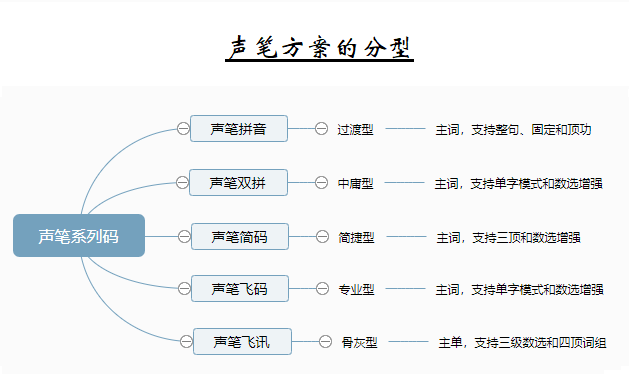
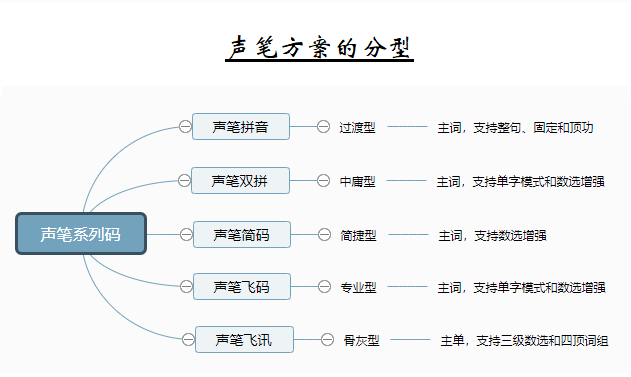
Site updated: 2023-04-05 09:45:58

diff --git a/sbpy/index.html b/sbpy/index.html
@@ -144,23 +144,6 @@ var _hmt = _hmt || [];
 <meta property="og:image" content="http://sbxlm.gitee.io/images/baidulizi7.png">
 <meta property="og:image" content="http://sbxlm.gitee.io/images/baidulizi8.png">
 <meta property="og:image" content="http://sbxlm.gitee.io/images/baidulizi9.png">
-<meta property="og:image" content="http://sbxlm.gitee.io/images/baidulizi10.png">
-<meta property="og:image" content="http://sbxlm.gitee.io/images/baidulizi11.png">
-<meta property="og:image" content="http://sbxlm.gitee.io/images/baidulizi12.png">
-<meta property="og:image" content="http://sbxlm.gitee.io/images/baidulizi13.png">
-<meta property="og:image" content="http://sbxlm.gitee.io/images/baidulizi14.png">
-<meta property="og:image" content="http://sbxlm.gitee.io/images/baidulizi15.png">
-<meta property="og:image" content="http://sbxlm.gitee.io/images/baidulizi16.png">
-<meta property="og:image" content="http://sbxlm.gitee.io/images/baidulizi17.png">
-<meta property="og:image" content="http://sbxlm.gitee.io/images/baidulizi18.png">
-<meta property="og:image" content="http://sbxlm.gitee.io/images/baidulizi19.png">
-<meta property="og:image" content="http://sbxlm.gitee.io/images/baidulizi20.png">
-<meta property="og:image" content="http://sbxlm.gitee.io/images/baidulizi21.png">
-<meta property="og:image" content="http://sbxlm.gitee.io/images/baidulizi22.png">
-<meta property="og:image" content="http://sbxlm.gitee.io/images/baidulizi23.png">
-<meta property="og:image" content="http://sbxlm.gitee.io/images/baidulizi24.png">
-<meta property="og:image" content="http://sbxlm.gitee.io/images/baidulizi25.png">
-<meta property="og:image" content="http://sbxlm.gitee.io/images/baidulizi26.png">
 <meta property="og:image" content="http://sbxlm.gitee.io/images/ED4554C66B157CA65E9DD26844A5B276.jpg">
 <meta property="og:image" content="http://sbxlm.gitee.io/images/image-20230201143234032.png">
 <meta property="og:image" content="http://sbxlm.gitee.io/images/image-20230201142801951.png">
@@ -277,7 +260,8 @@ var _hmt = _hmt || [];
 <meta property="og:image" content="http://sbxlm.gitee.io/images/image-20230201112859053.png">
 <meta property="og:image" content="http://sbxlm.gitee.io/images/image-20230201112932522.png">
 <meta property="og:image" content="http://sbxlm.gitee.io/images/image-20230201113016504.png">
-<meta property="og:image" content="http://sbxlm.gitee.io/images/image-20230301073635129.png">
+<meta property="og:image" content="http://sbxlm.gitee.io/images/image-20230403141213815.png">
+<meta property="og:image" content="http://sbxlm.gitee.io/images/image-20230405092939938.png">
 <meta property="og:image" content="http://sbxlm.gitee.io/images/image-20230202021053841.png">
 <meta property="og:image" content="http://sbxlm.gitee.io/images/image-20230301074325880.png">
 <meta property="og:image" content="http://sbxlm.gitee.io/images/image-20230301113246474.png">
@@ -321,7 +305,7 @@ var _hmt = _hmt || [];
 <meta property="og:image" content="http://sbxlm.gitee.io/images/image-20230222100111693.png">
 <meta property="og:image" content="http://sbxlm.gitee.io/images/image-20230222100132046.png">
 <meta property="og:image" content="http://sbxlm.gitee.io/images/image-20230222100156510.png">
-<meta property="og:updated_time" content="2023-03-01T22:28:36.013Z">
+<meta property="og:updated_time" content="2023-04-05T01:30:30.149Z">
 <meta name="twitter:card" content="summary">
 <meta name="twitter:title" content="声笔拼音">
 <meta name="twitter:description" content="1  引言拼音输入法是中国大陆目前使用得最为广泛的输入方案，其用户比例至少在96%以上，甚至可能高达99%。确切地说，这里的拼音输入法是全拼输入，不包括双拼，因为后者使用的人非常少，相比全拼可以说是微乎其微。 在中国大陆，任何需要输入中文的设备或者操作系统，不论电脑、手机还是平板、电视，也不论Windows、MacOS、Android还是iOS，全拼输入方案都是必备的，而且是默认的中文输入方式。不">
@@ -922,55 +906,8 @@ var _hmt = _hmt || [];
 <p><img src="/images/baidulizi8.png" alt="百度例子8"></p>
 <p>即使补全「拼」字的韵母后，也要在第4页上才会出现。</p>
 <p><img src="/images/baidulizi9.png" alt="百度例子9"></p>
-<p>所以，虽然简拼有的时候能够大大节约用键，提高输入效率，但是运用不好的话，也可能适得其反，更不能教条化地无条件使用。至于如何正确使用，我们将在讲到拼音输入技巧时详细论述。</p>
-<h3 id="1-2-拼音输入技巧"><a href="#1-2-拼音输入技巧" class="headerlink" title="1.2 拼音输入技巧"></a>1.2 拼音输入技巧</h3><p>在前面论述拼音输入误区的时候，已经得出结论：以整句为单位来输入中文是不可取的，而且单字加联想的方式也是应该避免的，简拼也不要不分青红皂白地使用。那么，正确的方式是应该以字词为单位来进行输入，并且综合利用各种技巧。字词再加细分，又可以分为单字、二字词、三字词和多字词，以下分别论述其正确的输入方法。</p>
-<h4 id="1-2-1-单字"><a href="#1-2-1-单字" class="headerlink" title="1.2.1 单字"></a>1.2.1 单字</h4><p>汉字的同音字现象很严重，单字输入时重码多，码长长，人机交互频繁，不利于提高输入速度，所以要尽量避免，只有在不能组词的情况下才使用单字。在输入单字时，又分超高频单字、一般单字和局部重复使用的单字几种情况而有不同的输入方式。</p>
-<h5 id="1-2-1-1-高频字"><a href="#1-2-1-1-高频字" class="headerlink" title="1.2.1.1 高频字"></a>1.2.1.1 高频字</h5><p>高频字是指少数使用频率非常高的单字，如「的」「一」「是」「了」等，它们一般只需要用一码就行了。这类字很容易形成条件反射，不假思索地就打声母加空格了。但是，在主流的拼音输入法中，拼音首字母上的字不是固定的，会随着你的使用发生变化，这就容易造成误输入。例如，用百度PC端输入法，在输入h后，就可能有以下不同的结果。</p>
-<p><img src="/images/baidulizi10.png" alt="百度例子10"></p>
-<p>对于初学者来说，这种动态调整也许是有益的，可以尽量减少用户的按键操作，因为输入法是根据该字的使用频度和已经输入的字词来排列一简字的。但是，稍微熟练点的用户就会希望将拼音首字母上的超高频字固定下来，因为人会对高频反复的动作形成条件反射。固定一简字后，可以对一简字进行盲打，提高击键速度，比之频繁的人机交互更能提高打字速度。固定超高频字的方法是利用输入法的自定义短语功能为你选定的超高频字固定一个字母。</p>
-<p>在键入首字母后，除了作为首选项的一简字，还有一些其它字可以直接用数字选择上屏。初学者常常会去选择它们，因为可以节约用键啊。一定要抵抗住这种诱惑，否则会养成坏的习惯。为什么呢？因为那些字是动态变化的，扫描这些选项来找到需要的字是很费时间的。而且，数字键不好操作，容易按错，对初学者更是如此。</p>
-<p>还有一种诱惑更要抵抗住，那就是输入第一码后通过翻页去找后面的字，除非你不知道韵母。这是一种效率极低的输入方法，有太多的人机交互，不但会导致击键缓慢，而且用不了多久，眼睛就会疲乏倦怠而受不了。</p>
-<h5 id="1-2-1-2-一般字"><a href="#1-2-1-2-一般字" class="headerlink" title="1.2.1.2  一般字"></a>1.2.1.2  一般字</h5><p>一般字是指一简字之外的其它单字。这种字一般是采用全拼输入。如果有重码就用数字键来选择。通常默认有五个选项，分别用12345作为选择键，首选项可以用空格上屏，而且一定要用空格上屏才能提高效率。选项的数量虽然可以通过设置调整为最多10个，但是不建议这么做，因为选项过多会加重人机交互的负担，效率反而降低。</p>
-<p>如果所要的字没有出现在当前页，一般人都是进行翻页查找，这对于高频字可能没有问题，其它字就可能需要很多次翻页查找。例如，「译」字，就需要六次翻页，在第七页才出现，而且如果不仔细看的话很可能看漏。如果要输入「疫」字，那么需要的翻页次数就更多了。</p>
-<p><img src="/images/baidulizi11.png" alt="百度例子11"></p>
-<p>怎么避免翻页呢？答案是添加辅助码，其方法是，先按Tab键，然后输入笔画或者部件名称的首字母。横竖撇捺折五种笔画分别用hsbnz来表示。部件的名称有的时候不好琢磨，比如「疫」的两个部件辅助码为bs，很少有人知道「殳」的读音为shu。下图所示是输入「疫」字时分别加笔画和部件辅助码的情况。</p>
-<p><img src="/images/baidulizi12.png" alt="百度例子12"></p>
-<p>在手机上的操作方式是类似的。在输入拼音后，下拉翻页，再点击笔画来过滤。不过，手机上只有笔画辅助码，没有部件辅助码，而且笔画也只能使用首笔。每页有多达二十个选项，当页没有的话，还可以再下拉翻页。操作过程如下图所示。</p>
-<p><img src="/images/baidulizi13.png" alt="百度例子13"></p>
-<h5 id="1-2-1-3-重复字"><a href="#1-2-1-3-重复字" class="headerlink" title="1.2.1.3  重复字"></a>1.2.1.3  重复字</h5><p>对于刚才输入过的字，即局部重复的字，输入法会动态的将其提前。例如，上例中的「疫」字，在输入过一次以后，只要输入它的拼音首字母，它就会出现在首位。</p>
-<p><img src="/images/baidulizi14.png" alt="百度例子14"></p>
-<p>当然，如果你已经将一个超高频字比如「一」通过自定义短语固定给了y，那么就需要输入yi才会有「疫」出现在首选。</p>
-<h4 id="1-2-2-二字词"><a href="#1-2-2-二字词" class="headerlink" title="1.2.2 二字词"></a>1.2.2 二字词</h4><p>二字词在中文里是使用得最多的词组，数量很大，同音词现象非常严重，掌握其输入技巧是极为重要的。与单字的情况类似，也可以分为高频词、一般词和重复词三种情况。如何判断一个词是否为高频词，没有一个简单的规则可用，只能凭借经验和直觉了。</p>
-<h5 id="1-2-2-1-高频词"><a href="#1-2-2-1-高频词" class="headerlink" title="1.2.2.1  高频词"></a>1.2.2.1  高频词</h5><p>对于使用频率很高的二字词，应该采用简拼来输入。例如，「我们」可以用wm，「非常」一般用fc即可。</p>
-<p><img src="/images/baidulizi15.png" alt="百度例子15"></p>
-<p>如果首页没有你要的词，一定不要翻页查找，而是应该继续输入第二字的韵母。例如，「文明」在输入wm后，如果没有，就补全为wming。</p>
-<p><img src="/images/baidulizi16.png" alt="百度例子16"></p>
-<p>这时如果要输入的是「亡命」，又怎么办呢？一种方法是，按左箭头键一次将光标向前移动一个音节到w后，补充输入「亡」的韵母ang，然后按End键将光标移动到最后。</p>
-<p><img src="/images/baidulizi17.png" alt="百度例子17"></p>
-<p>更好的方法是，不移动光标，而按Tab后添加首字前两笔的笔画辅助码，「亡命」就出现了。</p>
-<p><img src="/images/baidulizi18.png" alt="百度例子18"></p>
-<p>如果要输入的词不存在，也可以通过以上方式来造词，而不是用Esc清除后重新输入，造成浪费。比如，输入「声笔」的情况如下。在输入sbi后，当前页没有，按Tab键追加首字的四个笔画hshz，「声」字出现在首位，按空格上屏后，「笔」字也出现了。</p>
-<p><img src="/images/baidulizi19.png" alt="百度例子19"></p>
-<h5 id="1-2-2-2-一般词"><a href="#1-2-2-2-一般词" class="headerlink" title="1.2.2.2  一般词"></a>1.2.2.2  一般词</h5><p>如果用户判断要输入的二字词不是特别常见，那么第一个字就要采用全拼，第二个字先用简拼。这种方式的用键比较多，优点是确定性更好。例如，要输入「撞针」，则先输入zhuangz，发现没有，于是再补全第二字的拼音，该词就出现了。</p>
-<p><img src="/images/baidulizi20.png" alt="百度例子20"></p>
-<p>如果遇到不存在的词，则按Tab键添加首字笔画或者部件的声母，逐个选择输入单字来造词。还是以「声笔」一词为例，输入过程如下。</p>
-<p><img src="/images/baidulizi21.png" alt="百度例子21"></p>
-<p>这里需要注意的问题仍然是，要避免陷入翻页查找的误区。虽然有的时候翻页一次就能找到，但是也会常常遇到多次翻页都找不到的情况，总体平均下来成本会更高。</p>
-<p>如果已经估计到一个二字词在输入法中不存在，那么还是用全拼来输入后造词是最好的。</p>
-<h5 id="1-2-2-3-重复词"><a href="#1-2-2-3-重复词" class="headerlink" title="1.2.2.3  重复词"></a>1.2.2.3  重复词</h5><p>对于上文刚出现过的二字词，一般可以直接采用简拼来输入。比如，上文才输入了「撞针」和「声笔」，那么分别用zz和sb就可以输入它们了，可以节约大量的用键。</p>
-<p><img src="/images/baidulizi22.png" alt="百度例子22"></p>
-<h4 id="1-2-3-三字词"><a href="#1-2-3-三字词" class="headerlink" title="1.2.3  三字词"></a>1.2.3  三字词</h4><p>在中文里，三字词的数量比二字词少得多，而且三字词拼音提供的编码信息量大，所以效率最高并能避免浪费的输入方式是，先用简拼，未出现则补全末字的拼音，再未出现则按Tab键后追加首字的笔画。例如，输入「浆纱机」的过程如下。</p>
-<p><img src="/images/baidulizi23.png" alt="百度例子23"></p>
-<p>对比以下可能的其它方式。可以看出，提供的拼音越全面，确定性也就越高，但是用键也越多。</p>
-<p><img src="/images/baidulizi24.png" alt="百度例子24"></p>
-<p>对于「浆纱机」一词的输入来说，以上的第一种方式用键还更省，而且不用追加笔画，似乎是更好的。但是，这些方式不能以最简的方式来输入「计算机」「教师节」等词组，总体说来还是不划算的。如果上文才输入过「浆纱机」，那么用简拼就是理所当然的事了，与推荐的方法也是吻合的。</p>
-<p>如果我们觉得输入法应该有的词，按照简拼优先的方式输入后发现没有，那么仍然可以Tab追加笔画来造词，比如输入「声笔佬」的过程如下。</p>
-<p><img src="/images/baidulizi25.png" alt="百度例子25"></p>
-<p>还是要强调一下，如果明明知道某个词在输入法中没有的话，那么还是用全拼来造词是最好的。</p>
-<h4 id="1-2-4-多字词"><a href="#1-2-4-多字词" class="headerlink" title="1.2.4  多字词"></a>1.2.4  多字词</h4><p>多字词是指四字及以上的词，它们数量虽然非常大，但是简拼能够提供的信息也足够丰富，所以应该以简拼作为最佳输入手段。例如，「欣欣向荣」「天王盖地虎」，输入前四个字的简拼后就出来了。</p>
-<p><img src="/images/baidulizi26.png" alt="百度例子26"></p>
-<p>与其它类型词组不同的是，如果通过简拼没有找到所需的词，那么最好就不要用补全末字拼音和追加笔画的方式来造词了，而应该用Esc键清除编码后，改用全拼输入来造词，这是因为已经输入的编码并不多，而追加韵母和笔画造词又太繁琐。</p>
-<h3 id="1-3-拼音输入改进"><a href="#1-3-拼音输入改进" class="headerlink" title="1.3 拼音输入改进"></a>1.3 拼音输入改进</h3><p>通常，为了在使用拼音的情况克服以上问题，人们首先想到的可能就是采用双拼。但是，双拼的门槛还是不低，需要记住30来个韵母、3个翘舌声母和零声母的表示形式，而且仍然不能解决重码多的问题。</p>
+<p>所以，虽然简拼有的时候能够大大节约用键，提高输入效率，但是运用不好的话，也可能适得其反，更不能教条化地无条件使用。</p>
+<h3 id="1-2-拼音输入改进"><a href="#1-2-拼音输入改进" class="headerlink" title="1.2 拼音输入改进"></a>1.2 拼音输入改进</h3><p>通常，为了在使用拼音的情况克服以上问题，人们首先想到的可能就是采用双拼。但是，双拼的门槛还是不低，需要记住30来个韵母、3个翘舌声母和零声母的表示形式，而且仍然不能解决重码多的问题。</p>
 <p>声笔拼音则另辟蹊径，以全拼为基础，进行适当的变形，只需花费比双拼小得多的代价，就可以取得相当于甚至高于双拼的输入效率。声笔拼音是一种非常「奇特」的拼音输入法，它完全颠覆了人们对拼音输入法的认识，平均码长和重码大幅度减少，翻页键很少用得着，输入效率大大提升。</p>
 <blockquote>
 <p>声笔拼音三板斧，实现三次大飞跃</p>
@@ -980,9 +917,9 @@ var _hmt = _hmt || [];
 <li>省略用键：优化路径、省略空格、简化回改</li>
 </ol>
 </blockquote>
-<h3 id="1-4-适用人群"><a href="#1-4-适用人群" class="headerlink" title="1.4 适用人群"></a>1.4 适用人群</h3><p>声笔拼音适合什么样的人使用呢？声笔拼音是对现有拼音输入法的优化和改进，所以它适用于正在用拼音输入中文的所有人，可以仅花费极小的代价就获得高得多的中文输入效率，而不必花更多的时间和精力去学习双拼甚至五笔等。声笔拼音将彻底改变人们对拼音输入时重码多、效率低的刻板印象，是最佳的拼音输入法升级方案。</p>
+<h3 id="1-3-适用人群"><a href="#1-3-适用人群" class="headerlink" title="1.3 适用人群"></a>1.3 适用人群</h3><p>声笔拼音适合什么样的人使用呢？声笔拼音是对现有拼音输入法的优化和改进，所以它适用于正在用拼音输入中文的所有人，可以仅花费极小的代价就获得高得多的中文输入效率，而不必花更多的时间和精力去学习双拼甚至五笔等。声笔拼音将彻底改变人们对拼音输入时重码多、效率低的刻板印象，是最佳的拼音输入法升级方案。</p>
 <p>如果您的拼音非常糟糕，对韵母的掌握一塌糊涂，声母也分不清平翘舌什么的，同时又想有一个简单高效的输入方案，那么强烈建议您使用声笔系列码中的<a href="../sbjm/">声笔简码</a>，它仅使用不分平翘舌的声母和五个笔画，就能取得比声笔拼音还高的输入效率。</p>
-<h3 id="1-5-内容介绍"><a href="#1-5-内容介绍" class="headerlink" title="1.5 内容介绍"></a>1.5 内容介绍</h3><p>本文只涉及声笔系列码中的声笔拼音。有关声笔系列码的总体情况请参见<a href="../about/">总体介绍</a>。有关下载、安装和配置的方法，请参见<a href="../vzpz/">安装配置</a>。有关声笔系列码的发展历史，请参见<a href="../fzlc/">发展历程</a>。对于一些常见问题的解答，请参见<a href="../faq/">常见问题</a>。声笔系列码的其它输入方案详见各自的专题。</p>
+<h3 id="1-4-内容介绍"><a href="#1-4-内容介绍" class="headerlink" title="1.4 内容介绍"></a>1.4 内容介绍</h3><p>本文只涉及声笔系列码中的声笔拼音。有关声笔系列码的总体情况请参见<a href="../about/">总体介绍</a>。有关下载、安装和配置的方法，请参见<a href="../vzpz/">安装配置</a>。有关声笔系列码的发展历史，请参见<a href="../fzlc/">发展历程</a>。对于一些常见问题的解答，请参见<a href="../faq/">常见问题</a>。声笔系列码的其它输入方案详见各自的专题。</p>
 <h2 id="2-声笔拼音初步"><a href="#2-声笔拼音初步" class="headerlink" title="2 声笔拼音初步"></a>2 声笔拼音初步</h2><h3 id="2-1-快速入门"><a href="#2-1-快速入门" class="headerlink" title="2.1 快速入门"></a>2.1 快速入门</h3><h4 id="2-1-1-编码规则"><a href="#2-1-1-编码规则" class="headerlink" title="2.1.1 编码规则"></a>2.1.1 编码规则</h4><p>声笔拼音的编码元素为声母、韵母和笔画，具体表示方法与现行拼音输入法有一定的差异，请注意以下几点。</p>
 <ol>
 <li>冠零声：用v表示零声母，即作为以<code>a e o</code>开头的音节在形式上的声母。例如，<code>ai ei ou</code>就变成了<code>vai vei vou</code>。</li>
@@ -1271,11 +1208,13 @@ var _hmt = _hmt || [];
 <p>附fi 扶fi 吠fi 呋fi 唪fi 咈fi 噃fi 哹fi 咕gi 嘎gi 咣gi 呱gi 哏gi 哽gi 呷gi 嗝gi 怀hi 呵hi 嘿hi 嗨hi 哗hi 嗬hi 呼hi 唬hi 咯ki 咔ki 吭ki 哐ki 喀ki 嘅ki 咖ki 喹ki 诶vi 哎vi 嗳vi 唔vi 唉vi 嗷vi 嗄vi 吽vi 昂vu 矮vu 挨vu 敖vu 黯vu 熬vu 厄vu 俺vu 味wi 呜wi 嗡wi 喔wi 哇wi 喂wi 吻wi 唔wi</p>
 </blockquote>
 <p><img src="/images/image-20230201113016504.png" alt="image-20230201113016504"></p>
-<h4 id="3-3-2-数选词"><a href="#3-3-2-数选词" class="headerlink" title="3.3.2 数选词"></a>3.3.2 数选词</h4><p>声笔拼音的数选词采用两字的声母，再用数字来选择输入，在输入两码后会进行提示，数量较多，有3528个，以下是频率较高的前200个。</p>
+<h4 id="3-3-2-数选词"><a href="#3-3-2-数选词" class="headerlink" title="3.3.2 数选词"></a>3.3.2 数选词</h4><p>声笔拼音的数选词采用两字的声母，再用数字来选择输入，在输入两码后会进行提示，数量较多，有3523个，以下是频率较高的前200个。数字<code>23789</code>选择的为有理编码，它们与<code>aeuio</code>一一对应，代表第二字首笔画，而数字<code>456</code>选择的为无理编码，不与笔画对应。1和0是用来定位的，所以没有安排词组。</p>
 <blockquote>
 <p>中国这么那么一点只有心中社会世界声音之间技术眼睛一起以为有些然后宝贝想到男人国际过来一阵公司对方真是决定信息组织有关心里合作继续于是解决提高她们由于思想母亲会议回答生产群众江湖不想人们干部甚至无关立刻经过处理最后对于目光似的科技不见能够电话多少了解不断众人努力网络高兴到底之下不再具有来到不少是否罢工一边如今接着双手刚才坚持进来既然找到否则容易以来方式奇怪投资政策任务对象农业和尚后来脸色力量留下不好跟着敌人少年目标不用规定城市变成为何生命稳定全身仿佛之外进去开放分析行为开口哈哈安全青年民族总理访问学生大概开展丈夫认真回家感情程序听见困难听说失去绝不部分面对出口促进心情笑容考虑确定用户那儿不如若是的确外面哥哥同样连忙国有可惜心头并且收入肯定美元领域妈妈男子全面态度地位方才一番父母人才当年包括危险国内得了可怕协议采用联合动作家庭作品按照发表操作何况明显发觉下面先进正确强烈汽车投入状态得出其它年代</p>
 </blockquote>
-<p><img src="/images/image-20230301073635129.png" alt="image-20230301073635129"></p>
+<p><img src="/images/image-20230403141213815.png" alt="image-20230403141213815"></p>
+<p>由于<code>fv kv mv pv rv</code>在笔画为2（折）时无对应的有理词组， 所以其选项用编码代替，如下例所示。</p>
+<p><img src="/images/image-20230405092939938.png" alt="image-20230405092939938"></p>
 <h3 id="3-4-组合固定"><a href="#3-4-组合固定" class="headerlink" title="3.4 组合固定"></a>3.4 组合固定</h3><p>由固定字词而形成的某些组合形式是固定的，它们也是完全确定的，当组合后的用键足够少时在固定字词中就没有收录它们，它们多半不是真正的词组。使用一个固定组合的前提是，要首先记住构成它的固定字词。</p>
 <p>二简词中不包含由两个一简字的组合，因为它们可以通过两字的声母加分号变换快捷输入，例如：<code>一个yg; 就是js; 下去xq;</code>等。同时，<code>可发kf; 没下mx; 不你bn;</code>等则根本不是词，但仍可以按固定组合的方式用分号变换上屏。</p>
 <p>数选词既不包含由两个一简字的组合，也不收录二简词，例如：<code>一个yg; 起来ql_ 但是ds_</code>。</p>
@@ -1789,7 +1728,7 @@ var _hmt = _hmt || [];
             
 
             
-              <div class="post-toc-content"><ol class="nav"><li class="nav-item nav-level-2"><a class="nav-link" href="#1-引言"><span class="nav-text">1  引言</span></a><ol class="nav-child"><li class="nav-item nav-level-3"><a class="nav-link" href="#1-1拼音输入误区"><span class="nav-text">1.1拼音输入误区</span></a><ol class="nav-child"><li class="nav-item nav-level-4"><a class="nav-link" href="#1-1-1-整句误区"><span class="nav-text">1.1.1 整句误区</span></a></li><li class="nav-item nav-level-4"><a class="nav-link" href="#1-1-2-联想误区"><span class="nav-text">1.1.2 联想误区</span></a></li><li class="nav-item nav-level-4"><a class="nav-link" href="#1-1-3-简拼误区"><span class="nav-text">1.1.3 简拼误区</span></a></li></ol></li><li class="nav-item nav-level-3"><a class="nav-link" href="#1-2-拼音输入技巧"><span class="nav-text">1.2 拼音输入技巧</span></a><ol class="nav-child"><li class="nav-item nav-level-4"><a class="nav-link" href="#1-2-1-单字"><span class="nav-text">1.2.1 单字</span></a><ol class="nav-child"><li class="nav-item nav-level-5"><a class="nav-link" href="#1-2-1-1-高频字"><span class="nav-text">1.2.1.1 高频字</span></a></li><li class="nav-item nav-level-5"><a class="nav-link" href="#1-2-1-2-一般字"><span class="nav-text">1.2.1.2  一般字</span></a></li><li class="nav-item nav-level-5"><a class="nav-link" href="#1-2-1-3-重复字"><span class="nav-text">1.2.1.3  重复字</span></a></li></ol></li><li class="nav-item nav-level-4"><a class="nav-link" href="#1-2-2-二字词"><span class="nav-text">1.2.2 二字词</span></a><ol class="nav-child"><li class="nav-item nav-level-5"><a class="nav-link" href="#1-2-2-1-高频词"><span class="nav-text">1.2.2.1  高频词</span></a></li><li class="nav-item nav-level-5"><a class="nav-link" href="#1-2-2-2-一般词"><span class="nav-text">1.2.2.2  一般词</span></a></li><li class="nav-item nav-level-5"><a class="nav-link" href="#1-2-2-3-重复词"><span class="nav-text">1.2.2.3  重复词</span></a></li></ol></li><li class="nav-item nav-level-4"><a class="nav-link" href="#1-2-3-三字词"><span class="nav-text">1.2.3  三字词</span></a></li><li class="nav-item nav-level-4"><a class="nav-link" href="#1-2-4-多字词"><span class="nav-text">1.2.4  多字词</span></a></li></ol></li><li class="nav-item nav-level-3"><a class="nav-link" href="#1-3-拼音输入改进"><span class="nav-text">1.3 拼音输入改进</span></a></li><li class="nav-item nav-level-3"><a class="nav-link" href="#1-4-适用人群"><span class="nav-text">1.4 适用人群</span></a></li><li class="nav-item nav-level-3"><a class="nav-link" href="#1-5-内容介绍"><span class="nav-text">1.5 内容介绍</span></a></li></ol></li><li class="nav-item nav-level-2"><a class="nav-link" href="#2-声笔拼音初步"><span class="nav-text">2 声笔拼音初步</span></a><ol class="nav-child"><li class="nav-item nav-level-3"><a class="nav-link" href="#2-1-快速入门"><span class="nav-text">2.1 快速入门</span></a><ol class="nav-child"><li class="nav-item nav-level-4"><a class="nav-link" href="#2-1-1-编码规则"><span class="nav-text">2.1.1 编码规则</span></a></li><li class="nav-item nav-level-4"><a class="nav-link" href="#2-1-2-助记方法"><span class="nav-text">2.1.2 助记方法</span></a></li><li class="nav-item nav-level-4"><a class="nav-link" href="#2-1-3-基本输入"><span class="nav-text">2.1.3 基本输入</span></a></li><li class="nav-item nav-level-4"><a class="nav-link" href="#2-1-4-反查方法"><span class="nav-text">2.1.4 反查方法</span></a><ol class="nav-child"><li class="nav-item nav-level-5"><a class="nav-link" href="#2-1-4-1-拼音反查"><span class="nav-text">2.1.4.1 拼音反查</span></a></li><li class="nav-item nav-level-5"><a class="nav-link" href="#2-1-4-2-笔画反查"><span class="nav-text">2.1.4.2 笔画反查</span></a></li><li class="nav-item nav-level-5"><a class="nav-link" href="#2-1-4-3-两分反查"><span class="nav-text">2.1.4.3 两分反查</span></a></li></ol></li></ol></li><li class="nav-item nav-level-3"><a class="nav-link" href="#2-2-单字的输入"><span class="nav-text">2.2 单字的输入</span></a><ol class="nav-child"><li class="nav-item nav-level-4"><a class="nav-link" href="#2-2-1-重码问题"><span class="nav-text">2.2.1 重码问题</span></a></li><li class="nav-item nav-level-4"><a class="nav-link" href="#2-2-2-码长问题"><span class="nav-text">2.2.2 码长问题</span></a></li><li class="nav-item nav-level-4"><a class="nav-link" href="#2-2-3-模糊问题"><span class="nav-text">2.2.3 模糊问题</span></a></li></ol></li><li class="nav-item nav-level-3"><a class="nav-link" href="#2-3-二字词输入"><span class="nav-text">2.3 二字词输入</span></a><ol class="nav-child"><li class="nav-item nav-level-4"><a class="nav-link" href="#2-3-1-重码问题"><span class="nav-text">2.3.1 重码问题</span></a></li><li class="nav-item nav-level-4"><a class="nav-link" href="#2-3-2-输入格式"><span class="nav-text">2.3.2 输入格式</span></a></li><li class="nav-item nav-level-4"><a class="nav-link" href="#2-3-3-模糊问题"><span class="nav-text">2.3.3 模糊问题</span></a></li><li class="nav-item nav-level-4"><a class="nav-link" href="#2-3-4-隔音问题"><span class="nav-text">2.3.4 隔音问题</span></a></li><li class="nav-item nav-level-4"><a class="nav-link" href="#2-3-5-定位修改"><span class="nav-text">2.3.5 定位修改</span></a></li></ol></li><li class="nav-item nav-level-3"><a class="nav-link" href="#2-4-三字词输入"><span class="nav-text">2.4 三字词输入</span></a><ol class="nav-child"><li class="nav-item nav-level-4"><a class="nav-link" href="#2-4-1-重码问题"><span class="nav-text">2.4.1 重码问题</span></a></li><li class="nav-item nav-level-4"><a class="nav-link" href="#2-4-2-输入格式"><span class="nav-text">2.4.2 输入格式</span></a></li><li class="nav-item nav-level-4"><a class="nav-link" href="#2-4-3-模糊问题"><span class="nav-text">2.4.3 模糊问题</span></a></li><li class="nav-item nav-level-4"><a class="nav-link" href="#2-4-4-隔音问题"><span class="nav-text">2.4.4 隔音问题</span></a></li><li class="nav-item nav-level-4"><a class="nav-link" href="#2-4-5-定位修改"><span class="nav-text">2.4.5 定位修改</span></a></li></ol></li><li class="nav-item nav-level-3"><a class="nav-link" href="#2-5-多字词输入"><span class="nav-text">2.5 多字词输入</span></a><ol class="nav-child"><li class="nav-item nav-level-4"><a class="nav-link" href="#2-5-1-重码问题"><span class="nav-text">2.5.1 重码问题</span></a></li><li class="nav-item nav-level-4"><a class="nav-link" href="#2-5-2-输入格式"><span class="nav-text">2.5.2 输入格式</span></a></li><li class="nav-item nav-level-4"><a class="nav-link" href="#2-5-3-模糊问题"><span class="nav-text">2.5.3 模糊问题</span></a></li><li class="nav-item nav-level-4"><a class="nav-link" href="#2-5-4-隔音问题"><span class="nav-text">2.5.4 隔音问题</span></a></li><li class="nav-item nav-level-4"><a class="nav-link" href="#2-5-5-定位修改"><span class="nav-text">2.5.5 定位修改</span></a></li></ol></li><li class="nav-item nav-level-3"><a class="nav-link" href="#2-6-构造新词"><span class="nav-text">2.6 构造新词</span></a></li><li class="nav-item nav-level-3"><a class="nav-link" href="#2-7-频率调整"><span class="nav-text">2.7 频率调整</span></a></li></ol></li><li class="nav-item nav-level-2"><a class="nav-link" href="#3-声笔拼音进阶"><span class="nav-text">3 声笔拼音进阶</span></a><ol class="nav-child"><li class="nav-item nav-level-3"><a class="nav-link" href="#3-1-固定介绍"><span class="nav-text">3.1 固定介绍</span></a></li><li class="nav-item nav-level-3"><a class="nav-link" href="#3-2-前缀固定"><span class="nav-text">3.2 前缀固定</span></a><ol class="nav-child"><li class="nav-item nav-level-4"><a class="nav-link" href="#3-2-1-一简字"><span class="nav-text">3.2.1 一简字</span></a></li><li class="nav-item nav-level-4"><a class="nav-link" href="#3-2-2-二简词"><span class="nav-text">3.2.2 二简词</span></a></li></ol></li><li class="nav-item nav-level-3"><a class="nav-link" href="#3-3-数选固定"><span class="nav-text">3.3 数选固定</span></a><ol class="nav-child"><li class="nav-item nav-level-4"><a class="nav-link" href="#3-3-1-数选字"><span class="nav-text">3.3.1 数选字</span></a></li><li class="nav-item nav-level-4"><a class="nav-link" href="#3-3-2-数选词"><span class="nav-text">3.3.2 数选词</span></a></li></ol></li><li class="nav-item nav-level-3"><a class="nav-link" href="#3-4-组合固定"><span class="nav-text">3.4 组合固定</span></a></li><li class="nav-item nav-level-3"><a class="nav-link" href="#3-5-固定提示"><span class="nav-text">3.5 固定提示</span></a></li><li class="nav-item nav-level-3"><a class="nav-link" href="#3-6-固定运用"><span class="nav-text">3.6 固定运用</span></a></li></ol></li><li class="nav-item nav-level-2"><a class="nav-link" href="#4-声笔拼音高手"><span class="nav-text">4 声笔拼音高手</span></a><ol class="nav-child"><li class="nav-item nav-level-3"><a class="nav-link" href="#4-1-顶功介绍"><span class="nav-text">4.1 顶功介绍</span></a></li><li class="nav-item nav-level-3"><a class="nav-link" href="#4-2-单字输入"><span class="nav-text">4.2 单字输入</span></a></li><li class="nav-item nav-level-3"><a class="nav-link" href="#4-3-二字词输入"><span class="nav-text">4.3 二字词输入</span></a></li><li class="nav-item nav-level-3"><a class="nav-link" href="#4-4-跳跃补码"><span class="nav-text">4.4 跳跃补码</span></a></li><li class="nav-item nav-level-3"><a class="nav-link" href="#4-5-三字词输入"><span class="nav-text">4.5 三字词输入</span></a></li><li class="nav-item nav-level-3"><a class="nav-link" href="#4-6-四字词输入"><span class="nav-text">4.6 四字词输入</span></a></li><li class="nav-item nav-level-3"><a class="nav-link" href="#4-7-多字词输入"><span class="nav-text">4.7 多字词输入</span></a></li></ol></li></ol></div>
+              <div class="post-toc-content"><ol class="nav"><li class="nav-item nav-level-2"><a class="nav-link" href="#1-引言"><span class="nav-text">1  引言</span></a><ol class="nav-child"><li class="nav-item nav-level-3"><a class="nav-link" href="#1-1拼音输入误区"><span class="nav-text">1.1拼音输入误区</span></a><ol class="nav-child"><li class="nav-item nav-level-4"><a class="nav-link" href="#1-1-1-整句误区"><span class="nav-text">1.1.1 整句误区</span></a></li><li class="nav-item nav-level-4"><a class="nav-link" href="#1-1-2-联想误区"><span class="nav-text">1.1.2 联想误区</span></a></li><li class="nav-item nav-level-4"><a class="nav-link" href="#1-1-3-简拼误区"><span class="nav-text">1.1.3 简拼误区</span></a></li></ol></li><li class="nav-item nav-level-3"><a class="nav-link" href="#1-2-拼音输入改进"><span class="nav-text">1.2 拼音输入改进</span></a></li><li class="nav-item nav-level-3"><a class="nav-link" href="#1-3-适用人群"><span class="nav-text">1.3 适用人群</span></a></li><li class="nav-item nav-level-3"><a class="nav-link" href="#1-4-内容介绍"><span class="nav-text">1.4 内容介绍</span></a></li></ol></li><li class="nav-item nav-level-2"><a class="nav-link" href="#2-声笔拼音初步"><span class="nav-text">2 声笔拼音初步</span></a><ol class="nav-child"><li class="nav-item nav-level-3"><a class="nav-link" href="#2-1-快速入门"><span class="nav-text">2.1 快速入门</span></a><ol class="nav-child"><li class="nav-item nav-level-4"><a class="nav-link" href="#2-1-1-编码规则"><span class="nav-text">2.1.1 编码规则</span></a></li><li class="nav-item nav-level-4"><a class="nav-link" href="#2-1-2-助记方法"><span class="nav-text">2.1.2 助记方法</span></a></li><li class="nav-item nav-level-4"><a class="nav-link" href="#2-1-3-基本输入"><span class="nav-text">2.1.3 基本输入</span></a></li><li class="nav-item nav-level-4"><a class="nav-link" href="#2-1-4-反查方法"><span class="nav-text">2.1.4 反查方法</span></a><ol class="nav-child"><li class="nav-item nav-level-5"><a class="nav-link" href="#2-1-4-1-拼音反查"><span class="nav-text">2.1.4.1 拼音反查</span></a></li><li class="nav-item nav-level-5"><a class="nav-link" href="#2-1-4-2-笔画反查"><span class="nav-text">2.1.4.2 笔画反查</span></a></li><li class="nav-item nav-level-5"><a class="nav-link" href="#2-1-4-3-两分反查"><span class="nav-text">2.1.4.3 两分反查</span></a></li></ol></li></ol></li><li class="nav-item nav-level-3"><a class="nav-link" href="#2-2-单字的输入"><span class="nav-text">2.2 单字的输入</span></a><ol class="nav-child"><li class="nav-item nav-level-4"><a class="nav-link" href="#2-2-1-重码问题"><span class="nav-text">2.2.1 重码问题</span></a></li><li class="nav-item nav-level-4"><a class="nav-link" href="#2-2-2-码长问题"><span class="nav-text">2.2.2 码长问题</span></a></li><li class="nav-item nav-level-4"><a class="nav-link" href="#2-2-3-模糊问题"><span class="nav-text">2.2.3 模糊问题</span></a></li></ol></li><li class="nav-item nav-level-3"><a class="nav-link" href="#2-3-二字词输入"><span class="nav-text">2.3 二字词输入</span></a><ol class="nav-child"><li class="nav-item nav-level-4"><a class="nav-link" href="#2-3-1-重码问题"><span class="nav-text">2.3.1 重码问题</span></a></li><li class="nav-item nav-level-4"><a class="nav-link" href="#2-3-2-输入格式"><span class="nav-text">2.3.2 输入格式</span></a></li><li class="nav-item nav-level-4"><a class="nav-link" href="#2-3-3-模糊问题"><span class="nav-text">2.3.3 模糊问题</span></a></li><li class="nav-item nav-level-4"><a class="nav-link" href="#2-3-4-隔音问题"><span class="nav-text">2.3.4 隔音问题</span></a></li><li class="nav-item nav-level-4"><a class="nav-link" href="#2-3-5-定位修改"><span class="nav-text">2.3.5 定位修改</span></a></li></ol></li><li class="nav-item nav-level-3"><a class="nav-link" href="#2-4-三字词输入"><span class="nav-text">2.4 三字词输入</span></a><ol class="nav-child"><li class="nav-item nav-level-4"><a class="nav-link" href="#2-4-1-重码问题"><span class="nav-text">2.4.1 重码问题</span></a></li><li class="nav-item nav-level-4"><a class="nav-link" href="#2-4-2-输入格式"><span class="nav-text">2.4.2 输入格式</span></a></li><li class="nav-item nav-level-4"><a class="nav-link" href="#2-4-3-模糊问题"><span class="nav-text">2.4.3 模糊问题</span></a></li><li class="nav-item nav-level-4"><a class="nav-link" href="#2-4-4-隔音问题"><span class="nav-text">2.4.4 隔音问题</span></a></li><li class="nav-item nav-level-4"><a class="nav-link" href="#2-4-5-定位修改"><span class="nav-text">2.4.5 定位修改</span></a></li></ol></li><li class="nav-item nav-level-3"><a class="nav-link" href="#2-5-多字词输入"><span class="nav-text">2.5 多字词输入</span></a><ol class="nav-child"><li class="nav-item nav-level-4"><a class="nav-link" href="#2-5-1-重码问题"><span class="nav-text">2.5.1 重码问题</span></a></li><li class="nav-item nav-level-4"><a class="nav-link" href="#2-5-2-输入格式"><span class="nav-text">2.5.2 输入格式</span></a></li><li class="nav-item nav-level-4"><a class="nav-link" href="#2-5-3-模糊问题"><span class="nav-text">2.5.3 模糊问题</span></a></li><li class="nav-item nav-level-4"><a class="nav-link" href="#2-5-4-隔音问题"><span class="nav-text">2.5.4 隔音问题</span></a></li><li class="nav-item nav-level-4"><a class="nav-link" href="#2-5-5-定位修改"><span class="nav-text">2.5.5 定位修改</span></a></li></ol></li><li class="nav-item nav-level-3"><a class="nav-link" href="#2-6-构造新词"><span class="nav-text">2.6 构造新词</span></a></li><li class="nav-item nav-level-3"><a class="nav-link" href="#2-7-频率调整"><span class="nav-text">2.7 频率调整</span></a></li></ol></li><li class="nav-item nav-level-2"><a class="nav-link" href="#3-声笔拼音进阶"><span class="nav-text">3 声笔拼音进阶</span></a><ol class="nav-child"><li class="nav-item nav-level-3"><a class="nav-link" href="#3-1-固定介绍"><span class="nav-text">3.1 固定介绍</span></a></li><li class="nav-item nav-level-3"><a class="nav-link" href="#3-2-前缀固定"><span class="nav-text">3.2 前缀固定</span></a><ol class="nav-child"><li class="nav-item nav-level-4"><a class="nav-link" href="#3-2-1-一简字"><span class="nav-text">3.2.1 一简字</span></a></li><li class="nav-item nav-level-4"><a class="nav-link" href="#3-2-2-二简词"><span class="nav-text">3.2.2 二简词</span></a></li></ol></li><li class="nav-item nav-level-3"><a class="nav-link" href="#3-3-数选固定"><span class="nav-text">3.3 数选固定</span></a><ol class="nav-child"><li class="nav-item nav-level-4"><a class="nav-link" href="#3-3-1-数选字"><span class="nav-text">3.3.1 数选字</span></a></li><li class="nav-item nav-level-4"><a class="nav-link" href="#3-3-2-数选词"><span class="nav-text">3.3.2 数选词</span></a></li></ol></li><li class="nav-item nav-level-3"><a class="nav-link" href="#3-4-组合固定"><span class="nav-text">3.4 组合固定</span></a></li><li class="nav-item nav-level-3"><a class="nav-link" href="#3-5-固定提示"><span class="nav-text">3.5 固定提示</span></a></li><li class="nav-item nav-level-3"><a class="nav-link" href="#3-6-固定运用"><span class="nav-text">3.6 固定运用</span></a></li></ol></li><li class="nav-item nav-level-2"><a class="nav-link" href="#4-声笔拼音高手"><span class="nav-text">4 声笔拼音高手</span></a><ol class="nav-child"><li class="nav-item nav-level-3"><a class="nav-link" href="#4-1-顶功介绍"><span class="nav-text">4.1 顶功介绍</span></a></li><li class="nav-item nav-level-3"><a class="nav-link" href="#4-2-单字输入"><span class="nav-text">4.2 单字输入</span></a></li><li class="nav-item nav-level-3"><a class="nav-link" href="#4-3-二字词输入"><span class="nav-text">4.3 二字词输入</span></a></li><li class="nav-item nav-level-3"><a class="nav-link" href="#4-4-跳跃补码"><span class="nav-text">4.4 跳跃补码</span></a></li><li class="nav-item nav-level-3"><a class="nav-link" href="#4-5-三字词输入"><span class="nav-text">4.5 三字词输入</span></a></li><li class="nav-item nav-level-3"><a class="nav-link" href="#4-6-四字词输入"><span class="nav-text">4.6 四字词输入</span></a></li><li class="nav-item nav-level-3"><a class="nav-link" href="#4-7-多字词输入"><span class="nav-text">4.7 多字词输入</span></a></li></ol></li></ol></div>
             
 
           </div>

diff --git a/sbfx/index.html b/sbfx/index.html
@@ -159,12 +159,9 @@ var _hmt = _hmt || [];
 <meta property="og:image" content="http://sbxlm.gitee.io/images/image-20230311114033001.png">
 <meta property="og:image" content="http://sbxlm.gitee.io/images/image-20230311114614209.png">
 <meta property="og:image" content="http://sbxlm.gitee.io/images/image-20230311114820652.png">
-<meta property="og:image" content="http://sbxlm.gitee.io/images/image-20230311115833657.png">
-<meta property="og:image" content="http://sbxlm.gitee.io/images/image-20230311115854609.png">
-<meta property="og:image" content="http://sbxlm.gitee.io/images/image-20230311120915960.png">
 <meta property="og:image" content="http://sbxlm.gitee.io/images/image-20230311004856118.png">
 <meta property="og:image" content="http://sbxlm.gitee.io/images/image-20230313095017657.png">
-<meta property="og:updated_time" content="2023-03-26T12:10:36.293Z">
+<meta property="og:updated_time" content="2023-04-03T11:55:32.710Z">
 <meta name="twitter:card" content="summary">
 <meta name="twitter:title" content="声笔飞讯">
 <meta name="twitter:description" content="1 飞讯概述声笔飞讯，简称飞讯，是从著名顶功输入方案声笔飞码衍生出来的主单顶功方案，随着其词组能力的不断加强，几乎到达了字词双全的地步，对用户越来越有吸引力，特别是对追求极致效率的人更是如此。所以也自然而然地成长为一个独树一帜的方案，有太多的内容需要特别地讲解，值得独立出来专门进行论述了。 飞讯一直就具有出色的单字能力，它在纯单盲打方面大放异彩，以超短的平均码长取得极高的输入效率，适用于冗余度小的">
@@ -756,9 +753,8 @@ var _hmt = _hmt || [];
 <p>例如，「的时候」可以用<code>dsh;</code>来输入，以便节约用键。</p>
 <h3 id="2-6-词组过滤"><a href="#2-6-词组过滤" class="headerlink" title="2.6 词组过滤"></a>2.6 词组过滤</h3><p>如果用户习惯一直用第四码大写来输入多字词，那么就可以将飞讯schema文件中Translator下的enable_filtering选项设置为true，以过滤掉<code>szsbb</code>上的多字词，以减少重码。但是，不会过滤增强词组模式下szsnb上的多字词，这有助于动态缩短码长。默认的forced_selection选项为true，还可强制在<code>szsbb</code>上选择重码，从而减少扩展编码时的重码。这样设置对操作熟练的高级用户来说是非常有用的，可以减少很多重码，提高可盲打性，如下图所示。</p>
 <p><img src="/images/image-20230311000814969.png" alt="image-20230311000814969"></p>
-<h3 id="2-7-增强词组"><a href="#2-7-增强词组" class="headerlink" title="2.7 增强词组"></a>2.7 增强词组</h3><p>飞讯的词组模式可通过数字来增强而形成增强词组模式。此模式在增强单字模式的基础上，不但增加了大量三级数选词，更重要的是同时具备了词组的四二顶能力，即兼容了下一节将要讲解的快顶模式，输入的方式变得极为灵活多样，可以实现取长补短。</p>
-<h2 id="3-快顶模式"><a href="#3-快顶模式" class="headerlink" title="3 快顶模式"></a>3 快顶模式</h2><p>快顶模式是飞讯的最新发展，具有极其重要的意义，它实现了二码顶字、四码顶词的理想目标，使飞讯从一个主单的方案蝉变为一个字词双全的方案，不但保持了单字的高效率，克服了缩减词冲突问题，提高了顶屏的及时性，而且还大大提升了词组的效率，同时还基本上保持了数字的顶屏能力。</p>
-<h3 id="3-1-缩短码长"><a href="#3-1-缩短码长" class="headerlink" title="3.1 缩短码长"></a>3.1 缩短码长</h3><p>飞讯常规词组模式下，最大的不足就是词组需要五码才能输入，这就增加了平均码长，在一定程度上抵消了飞讯在单字输入方面的优势。有没有办法使飞讯的词组也只需要四码呢？有！飞讯在快顶状态下通过换码操作实现了这个目标。换码的原理是，将词组编码第四位上的笔画<code>aeuio</code>改用<code>23789</code>来编码输入，使得起始顶屏位和码长调整位都从第五位移动到第四位。</p>
+<h2 id="3-增强模式"><a href="#3-增强模式" class="headerlink" title="3 增强模式"></a>3 增强模式</h2><p>飞讯的词组模式可通过数字来增强而形成增强模式。此模式在增强单字模式的基础上，不但增加了大量三级数选词，更重要的是同时具备了词组的四码顶词能力，输入的方式变得极为灵活多样，可以实现取长补短。四码顶词能力是飞讯的最新发展，具有极其重要的意义，它在飞讯二码顶字的基础上实现了四码顶词的理想目标，使飞讯从一个主单的方案蝉变为一个字词双全的方案，不但保持了单字的高效率，而且还大大提升了词组的效率，同时还基本上保持了数字的顶屏能力。</p>
+<h3 id="3-1-缩短码长"><a href="#3-1-缩短码长" class="headerlink" title="3.1 缩短码长"></a>3.1 缩短码长</h3><p>飞讯常规模式下，最大的不足就是词组需要五码才能输入，这就增加了平均码长，在一定程度上抵消了飞讯在单字输入方面的优势。有没有办法使飞讯的词组也只需要四码呢？有！飞讯在增强模式下通过换码操作实现了这个目标。换码的原理是，将词组编码第四位上的笔画<code>aeuio</code>改用<code>23789</code>来编码输入，使得起始顶屏位和码长调整位都从第五位移动到第四位。</p>
 <p>例如，「奔驰」在常规模式下输入用的是<code>bdcaa</code>，而在增强模式下则用<code>bdc2</code>。</p>
 <p><img src="/images/image-20230311113452486.png" alt="image-20230311113452486"></p>
 <p>如果接着输入「到」字的首码<code>d</code>，「奔驰」就会被顶上屏幕。如果输入<code>bdc2</code>后，并不是想要的「奔驰」，那么就按正常的编码输入第五码。比如，若想输入的是「奔出」，那么就接着追加「出」字的第二笔。</p>
@@ -768,27 +764,22 @@ var _hmt = _hmt || [];
 <p>再次输入「表达出」时，可能就只需要四码了。</p>
 <p><img src="/images/image-20230311114820652.png" alt="image-20230311114820652"></p>
 <p>如果本来是想在三码后进行数字顶屏，却发现23789被当成了编码而无法顶的时候，可以用分号变换进行补救，而不必删除后回改。比如，上例的<code>bdc2</code> 加分号会变换成<code>bdc_2</code>，从而上屏「半出2」。</p>
-<h3 id="3-2-减少延迟"><a href="#3-2-减少延迟" class="headerlink" title="3.2 减少延迟"></a>3.2 减少延迟</h3><p>飞讯词组状态下，第二个不足是二简字后接声笔字时，需要延迟两码才能被顶上屏幕，即若第五码是声母才能顶。在快顶状态下，当输入声笔字的第二码时就把二简字顶上屏了。例如，「好事」一词，在输入了<code>has</code>之后，若再加<code>e</code>，「好」字就上屏了，剩下「事se」。</p>
-<p><img src="/images/image-20230311115833657.png" alt="image-20230311115833657"></p>
-<p><img src="/images/image-20230311115854609.png" alt="image-20230311115854609"></p>
-<h3 id="3-3-避免冲突"><a href="#3-3-避免冲突" class="headerlink" title="3.3 避免冲突"></a>3.3 避免冲突</h3><p>飞讯词组状态下，第三个不足是二简字后接<code>sbb</code>缩减码时往往会与已有的词组发生冲突而使五二顶失效，从而容易导致误操作。</p>
-<p>比如，在词组状态下输入「狂kq」「喘cia」时，「kqcia」上是常规词组「昆虫」，因而无法顶屏。但在快顶状态下，在输入第四码<code>i</code>时，已经将「狂」顶上屏了，所以永远不会发生冲突，接着输入<code>a</code>就是「喘」字了。</p>
-<p><img src="/images/image-20230311120915960.png" alt="image-20230311120915960"></p>
-<h3 id="3-4-增强快顶"><a href="#3-4-增强快顶" class="headerlink" title="3.4 增强快顶"></a>3.4 增强快顶</h3><p>由于少加了一个笔画，飞讯在四码顶屏时的编码空间只有飞码在五码顶屏时空间的五分之一，能容纳的四码词数量也就少得多，虽然缩短了码长，但会增加飞讯词组的动态性，从而降低其可盲打性。为了弥补这个遗憾，特为飞讯增加了三级数选词。在输入三码后，一般就会提示类似下面的五个数选词。</p>
+<p>由于少加了一个笔画，飞讯在四码顶屏时的编码空间只有飞码在五码顶屏时空间的五分之一，能容纳的四码词数量也就少得多，虽然缩短了码长，但会增加飞讯词组的动态性，增强查看候选项的时间，从而降低其可盲打性。所以，在对盲打要求比较高时，对于拿不准的词组，在首次输入的时候，建议采用五码。如果接着再出现同一词组，就可以采用四码的格式来缩短码长，这样就能充分利用两者的优势而规避它们的缺点。</p>
+<h3 id="3-2-三级数选"><a href="#3-2-三级数选" class="headerlink" title="3.2 三级数选"></a>3.2 三级数选</h3><p>为了进一步减少飞讯词组的动态性和离散重码，还为飞讯增加了三级数选词。在输入三码后，一般就会提示类似下面的五个数选词。</p>
 <p><img src="/images/image-20230311004856118.png" alt="image-20230311004856118"></p>
 <p>因为这些数选词是在三码后进行选择的，所以就称为三级数选词。又因为它们是不会发生变化的，所以就称为静态数选词。静态数选词在记住位置后是可以不看提示而进行盲打的。仔细观察候选词，可以发现一个有趣的现象，即456分别选择的234字词组。这不是偶然的巧合，而是一种精心的有意设计。</p>
 <p>由于三级数选词数量庞大，有五万多个，完全无理安排是很难记住的，而规定456分别选择234字词后，就可以大大减轻记忆负担。只有0和1上的词才是完全无理安排的，可以是二字词、三字词或者四字词，但是不会安排五字及以上的词组。优先为456安排更常用的词组，然后是1和0。</p>
 <p>不过，由于sbsz型码位无法安排三字词和四字词，所以在56上仍然安排的是二字词，算是例外吧。</p>
 <p><img src="/images/image-20230313095017657.png" alt="image-20230313095017657"></p>
 <p>另外，收录三级数选词时还排除了二简词、二级数选词，以及一、二简字组成的二字词，因为它们拆成单字输入也只需要四码，而且不会用到数字，效率更高。 例如，「大人」「大小」「来到」「了解」等都是不收录的。</p>
-<p>掌握了以上规律，用户就比较容易判断哪些词可能出现在三级数选的候选项中，从而加快选择速度和记忆速度。当然，并不建议用户去大量记忆三级数选词。三级数选字的主要是用来离散快顶四码时的常用重码词，这种重码词可能因人而异。当发现这种情况时，三级数选词就派上大用场了。</p>
+<p>掌握了以上规律，用户就比较容易判断哪些词可能出现在三级数选的候选项中，从而加快选择速度和记忆速度。当然，并不建议用户去大量记忆三级数选词。三级数选字的主要是用来离散四码顶词时的常用重码词，这种重码词可能因人而异。当发现这种情况时，三级数选词就派上大用场了。</p>
 <h2 id="附录：编码格式"><a href="#附录：编码格式" class="headerlink" title="附录：编码格式"></a>附录：编码格式</h2><p>为了便于用户总结和记忆飞讯的基本内容，现将飞讯的字词编码格式总结一下，编码格式采用了以下精简的表达方式。</p>
 <blockquote>
 <p>单字 <code>sb, sp^bb</code><br>二字词 <code>s1z1s2b2b2^&#39;b1b1</code><br>三字词 <code>s1s2s3b3b3^&#39;b1b1</code><br>多字词 <code>s1s2s3b0b0^&#39;b1b1|s1s2s3S0</code></p>
 </blockquote>
 <figure class="highlight plain"><table><tr><td class="gutter"><pre><span class="line">1</span><br><span class="line">2</span><br><span class="line">3</span><br></pre></td><td class="code"><pre><span class="line">z = p|b</span><br><span class="line">s = p = [qwrtsdfgzxcvbyphjklnm]</span><br><span class="line">b|x = [aeuio]</span><br></pre></td></tr></table></figure>
 <p>其中：<code>^</code>表示起始顶屏位，字母后的数字表示词组中的第几个字，0特别地表示末字；<code>&#39;</code>表示码长调整位；s表示声母（大写时表示用大写字母输入），p表示偏旁部首，b表示笔画，x表示选择键，<code>|</code>表示或者，z表示p或b。s 和 p 均采用 aeuio 以外的 21 个英文字母，b和x均采用 aeuio 这几个元音字母。</p>
-<p>在增强状态下，词组编码第四位上的笔画改用23789来编码的话，可使起始顶屏位和码长调整位都从第五位移动到第四位。</p>
+<p>在增强模式下，词组编码第四位上的笔画改用23789来编码的话，可使起始顶屏位和码长调整位都从第五位移动到第四位。</p>
 
         
       </div>
@@ -1157,7 +1148,7 @@ var _hmt = _hmt || [];
             
 
             
-              <div class="post-toc-content"><ol class="nav"><li class="nav-item nav-level-2"><a class="nav-link" href="#1-飞讯概述"><span class="nav-text">1 飞讯概述</span></a></li><li class="nav-item nav-level-2"><a class="nav-link" href="#2-词组模式"><span class="nav-text">2 词组模式</span></a><ol class="nav-child"><li class="nav-item nav-level-3"><a class="nav-link" href="#2-1-单字输入"><span class="nav-text">2.1 单字输入</span></a></li><li class="nav-item nav-level-3"><a class="nav-link" href="#2-2-词组输入"><span class="nav-text">2.2 词组输入</span></a></li><li class="nav-item nav-level-3"><a class="nav-link" href="#2-3-扩展编码"><span class="nav-text">2.3 扩展编码</span></a></li><li class="nav-item nav-level-3"><a class="nav-link" href="#2-4-冲突解决"><span class="nav-text">2.4 冲突解决</span></a></li><li class="nav-item nav-level-3"><a class="nav-link" href="#2-5-组合变换"><span class="nav-text">2.5 组合变换</span></a></li><li class="nav-item nav-level-3"><a class="nav-link" href="#2-6-词组过滤"><span class="nav-text">2.6 词组过滤</span></a></li><li class="nav-item nav-level-3"><a class="nav-link" href="#2-7-增强词组"><span class="nav-text">2.7 增强词组</span></a></li></ol></li><li class="nav-item nav-level-2"><a class="nav-link" href="#3-快顶模式"><span class="nav-text">3 快顶模式</span></a><ol class="nav-child"><li class="nav-item nav-level-3"><a class="nav-link" href="#3-1-缩短码长"><span class="nav-text">3.1 缩短码长</span></a></li><li class="nav-item nav-level-3"><a class="nav-link" href="#3-2-减少延迟"><span class="nav-text">3.2 减少延迟</span></a></li><li class="nav-item nav-level-3"><a class="nav-link" href="#3-3-避免冲突"><span class="nav-text">3.3 避免冲突</span></a></li><li class="nav-item nav-level-3"><a class="nav-link" href="#3-4-增强快顶"><span class="nav-text">3.4 增强快顶</span></a></li></ol></li><li class="nav-item nav-level-2"><a class="nav-link" href="#附录：编码格式"><span class="nav-text">附录：编码格式</span></a></li></ol></div>
+              <div class="post-toc-content"><ol class="nav"><li class="nav-item nav-level-2"><a class="nav-link" href="#1-飞讯概述"><span class="nav-text">1 飞讯概述</span></a></li><li class="nav-item nav-level-2"><a class="nav-link" href="#2-词组模式"><span class="nav-text">2 词组模式</span></a><ol class="nav-child"><li class="nav-item nav-level-3"><a class="nav-link" href="#2-1-单字输入"><span class="nav-text">2.1 单字输入</span></a></li><li class="nav-item nav-level-3"><a class="nav-link" href="#2-2-词组输入"><span class="nav-text">2.2 词组输入</span></a></li><li class="nav-item nav-level-3"><a class="nav-link" href="#2-3-扩展编码"><span class="nav-text">2.3 扩展编码</span></a></li><li class="nav-item nav-level-3"><a class="nav-link" href="#2-4-冲突解决"><span class="nav-text">2.4 冲突解决</span></a></li><li class="nav-item nav-level-3"><a class="nav-link" href="#2-5-组合变换"><span class="nav-text">2.5 组合变换</span></a></li><li class="nav-item nav-level-3"><a class="nav-link" href="#2-6-词组过滤"><span class="nav-text">2.6 词组过滤</span></a></li></ol></li><li class="nav-item nav-level-2"><a class="nav-link" href="#3-增强模式"><span class="nav-text">3 增强模式</span></a><ol class="nav-child"><li class="nav-item nav-level-3"><a class="nav-link" href="#3-1-缩短码长"><span class="nav-text">3.1 缩短码长</span></a></li><li class="nav-item nav-level-3"><a class="nav-link" href="#3-2-三级数选"><span class="nav-text">3.2 三级数选</span></a></li></ol></li><li class="nav-item nav-level-2"><a class="nav-link" href="#附录：编码格式"><span class="nav-text">附录：编码格式</span></a></li></ol></div>
             
 
           </div>

diff --git a/fzlc/index.html b/fzlc/index.html
@@ -121,18 +121,18 @@ var _hmt = _hmt || [];
 
 
 
-  <meta name="description" content="1 声笔系列码RIME版的发展历程 2023XXXX: 1.飞讯设置多字词过虑时，不作用于szsnb；2.修改默认的飞讯和飞码自定义词典示例; 3.支持用e引导临时缓冲模式，优化组合变换方法；4.飞码、飞讯和双拼提示一二级数选字词反向查找；5.取消飞讯的快顶模式。 20230322: 1.优化飞讯，增加快顶模式，并用增强词组模式来兼容快顶；2.支持sssz时进行数选顶屏，适用于拼音以外的所有方案；">
+  <meta name="description" content="1 声笔系列码RIME版的发展历程 2023XXXX: 1.飞讯设置多字词过虑时，不作用于szsnb；2.修改默认的飞讯和飞码自定义词典示例; 3.支持用e引导临时缓冲模式；4.支持缓冲上屏造长词；5.优化组合变换方法，解决缓冲上屏时出现的BUG；6.飞码、飞讯和双拼提示一二级数选字词反向查找；7.取消单独的飞讯快顶模式；8.用Lua脚本支持在安卓无悬浮窗时将重码标签转换为注释进行提示；9.纠正声">
 <meta name="keywords" content="输入法, 创新, 引领, 顶屏, 顶功, 自动码长, 自动造词, 字母选重">
 <meta property="og:type" content="website">
 <meta property="og:title" content="发展历程">
 <meta property="og:url" content="http://sbxlm.gitee.io/fzlc/index.html">
 <meta property="og:site_name" content="声笔输入法">
-<meta property="og:description" content="1 声笔系列码RIME版的发展历程 2023XXXX: 1.飞讯设置多字词过虑时，不作用于szsnb；2.修改默认的飞讯和飞码自定义词典示例; 3.支持用e引导临时缓冲模式，优化组合变换方法；4.飞码、飞讯和双拼提示一二级数选字词反向查找；5.取消飞讯的快顶模式。 20230322: 1.优化飞讯，增加快顶模式，并用增强词组模式来兼容快顶；2.支持sssz时进行数选顶屏，适用于拼音以外的所有方案；">
+<meta property="og:description" content="1 声笔系列码RIME版的发展历程 2023XXXX: 1.飞讯设置多字词过虑时，不作用于szsnb；2.修改默认的飞讯和飞码自定义词典示例; 3.支持用e引导临时缓冲模式；4.支持缓冲上屏造长词；5.优化组合变换方法，解决缓冲上屏时出现的BUG；6.飞码、飞讯和双拼提示一二级数选字词反向查找；7.取消单独的飞讯快顶模式；8.用Lua脚本支持在安卓无悬浮窗时将重码标签转换为注释进行提示；9.纠正声">
 <meta property="og:locale" content="zh-CN">
-<meta property="og:updated_time" content="2023-03-26T03:57:13.195Z">
+<meta property="og:updated_time" content="2023-04-05T01:43:15.445Z">
 <meta name="twitter:card" content="summary">
 <meta name="twitter:title" content="发展历程">
-<meta name="twitter:description" content="1 声笔系列码RIME版的发展历程 2023XXXX: 1.飞讯设置多字词过虑时，不作用于szsnb；2.修改默认的飞讯和飞码自定义词典示例; 3.支持用e引导临时缓冲模式，优化组合变换方法；4.飞码、飞讯和双拼提示一二级数选字词反向查找；5.取消飞讯的快顶模式。 20230322: 1.优化飞讯，增加快顶模式，并用增强词组模式来兼容快顶；2.支持sssz时进行数选顶屏，适用于拼音以外的所有方案；">
+<meta name="twitter:description" content="1 声笔系列码RIME版的发展历程 2023XXXX: 1.飞讯设置多字词过虑时，不作用于szsnb；2.修改默认的飞讯和飞码自定义词典示例; 3.支持用e引导临时缓冲模式；4.支持缓冲上屏造长词；5.优化组合变换方法，解决缓冲上屏时出现的BUG；6.飞码、飞讯和双拼提示一二级数选字词反向查找；7.取消单独的飞讯快顶模式；8.用Lua脚本支持在安卓无悬浮窗时将重码标签转换为注释进行提示；9.纠正声">
 
 
 
@@ -670,7 +670,7 @@ var _hmt = _hmt || [];
         
         
           <h2 id="1-声笔系列码RIME版的发展历程"><a href="#1-声笔系列码RIME版的发展历程" class="headerlink" title="1 声笔系列码RIME版的发展历程"></a>1 声笔系列码RIME版的发展历程</h2><ul>
-<li>2023XXXX: 1.飞讯设置多字词过虑时，不作用于szsnb；2.修改默认的飞讯和飞码自定义词典示例; 3.支持用e引导临时缓冲模式，优化组合变换方法；4.飞码、飞讯和双拼提示一二级数选字词反向查找；5.取消飞讯的快顶模式。</li>
+<li>2023XXXX: 1.飞讯设置多字词过虑时，不作用于szsnb；2.修改默认的飞讯和飞码自定义词典示例; 3.支持用e引导临时缓冲模式；4.支持缓冲上屏造长词；5.优化组合变换方法，解决缓冲上屏时出现的BUG；6.飞码、飞讯和双拼提示一二级数选字词反向查找；7.取消单独的飞讯快顶模式；8.用Lua脚本支持在安卓无悬浮窗时将重码标签转换为注释进行提示；9.纠正声笔拼音数选词错误。</li>
 <li>20230322: 1.优化飞讯，增加快顶模式，并用增强词组模式来兼容快顶；2.支持sssz时进行数选顶屏，适用于拼音以外的所有方案；3.声笔简码屏蔽三顶和慢调选项，支持用Tab上三个一简字；4.修订在线教程，将飞码和飞讯的单字模式作为虚拟输入方案独立成篇进行讲解。</li>
 <li>20230318: 1.修正双拼「帧zhen」排在繁体之后的Bug，将「吧」改为二简字；2.手机版的Backgroud目录增加.nomedia文件；3.剪贴板中「更多」项里的按钮排列优化；4.消除飞讯混顶时szsb出词不对和不唯一的bug；5.将fmn、fmnts和fxn词典作为依赖词典。</li>
 <li>20230316: 1.为fxn词典中sbsz码位增加用5和6选择的二字词；2.开放飞码、飞讯和双拼的数选词典供修改；3.修正飞讯三级动态数选时无法设置过滤多字词的BUG；4.优化声笔简码多字词过滤方法；5.修正aeuio引导时无法用Tab翻页的BUG；6.修正飞码数选字顶屏时的BUG；7.修正默认主题使用剪贴板后悬浮窗消失的问题。</li>

diff --git a/about/index.html b/about/index.html
@@ -132,7 +132,7 @@ var _hmt = _hmt || [];
 <meta property="og:image" content="http://sbxlm.gitee.io/images/image-20230311173220743.png">
 <meta property="og:image" content="http://sbxlm.gitee.io/images/image-20230312093117925.png">
 <meta property="og:image" content="http://sbxlm.gitee.io/images/image-20230312175013221.png">
-<meta property="og:updated_time" content="2023-03-17T23:19:13.009Z">
+<meta property="og:updated_time" content="2023-04-03T11:55:32.694Z">
 <meta name="twitter:card" content="summary">
 <meta name="twitter:title" content="总体介绍">
 <meta name="twitter:description" content="针对中文输入所面临的困难问题，声笔输入法（又称声笔系列码）通过多年持续不断地创新，已经逐步演进成了目前最优秀的中文键盘输入解决方案。它具有全面而系统、简单而高效的突出优点，以续码顶屏、字词分流、字母选重、扩展编码、动态码长和自动词组作为其核心技术，形成了可适应各类用户的输入方案体系。 1 如何使用好本在线教程建议想学习声笔系列码的用户按照以下步骤进行。  选定要使用的方案。阅读声笔在线教程的总体介">
@@ -709,6 +709,7 @@ var _hmt = _hmt || [];
 <h3 id="5-4-扩展编码"><a href="#5-4-扩展编码" class="headerlink" title="5.4 扩展编码"></a>5.4 扩展编码</h3><p>扩展编码是指在输入单字和二字词的基本编码后，在支持字母选重的基础上，还可以追加两码，并再次用aeuio来选择重码字词。这用于对付重码字词的重灾区特别有效。一方面可以用短码输入常见字词，另一方面又可通过加码来快速筛选重码多的字词。当然，扩展编码是可选的。对于初学者，总可以只采用基本编码，然后通过翻页来输入任何字词；但是，当重码很多时，需要多次翻页和扫视重码，输入效率很低。所以，熟练者应当尽量使用扩展编码来离散重码，而不要依赖翻页来查找字词。</p>
 <h3 id="5-5-动态码长"><a href="#5-5-动态码长" class="headerlink" title="5.5 动态码长"></a>5.5 动态码长</h3><p>动态码长是指在第一次输入某字词时，如果其码长超过一定长度，那么就将其码长缩短，而且其它相关字词的码长也会做相应的调整。这样，在下次输入同一字词时就可以用较少的键数。搜狗拼音中的动态简码有类似的效果，但是占用了单字和二字词简码位，是不可取的，不利于用户对高频字词的输入形成条件反射；同时，搜狗拼音的码长调整也不兼具「顶功」，从而不能省略空格键。声笔系列码中，具有简码的字词都是静态编码的，用户可以在使用中逐步形成条件反射，加快击键速度。</p>
 <h3 id="5-6-自动词组"><a href="#5-6-自动词组" class="headerlink" title="5.6 自动词组"></a>5.6 自动词组</h3><p>自动词组是指在输入的过程中，利用输入过的字词，自动组合为新的词组，并为其自动编码，此后就可以用此编码来输入新的词组，从而节约用键，提高输入效率。自动生成的新词组，作为临时词组保存，出现在重码字词的后面，再次被选择后成为正式的词组。造词过程全自动化，无需人为干预，非常快捷、方便。更为理想的是，对于用户几乎不使用的词组，还能自动进行清除，相当于人类的遗忘功能或程序语言的垃圾回收机制，可以避免废词的数量爆增，出现存储困难和重码选择困难等问题。</p>
+<p>在默认情况下，自动组词的长度限制为5个汉字，用户可以通过修改方案的schema改变此值，但是一般不建议修改此值。即使要修改，也不要超过10，因为那样会产生过多的废词，影响输入法的性能。超过5个汉字的词组，可以通过用e引导的临时缓冲上屏来创建。</p>
 <h2 id="6-声笔系列码的方案"><a href="#6-声笔系列码的方案" class="headerlink" title="6 声笔系列码的方案"></a>6 声笔系列码的方案</h2><p>从编码所使用的汉字特征属性来说，声笔简码是最简单的，只用了声母和笔画。以声笔简码为基础，加上全拼韵母就是声笔拼音，加上双拼韵母就是声笔双拼，加上部首就是声笔飞码和声笔飞讯。下图直观地说明了声笔系列码在使用编码元素方面各输入方案之间的关系。</p>
 <p><img src="/images/image-20230312093117925.png" alt="image-20230312093117925"></p>
 <p>下图说明了从使用目的角度讲声笔各输入方案所属的类型。</p>
